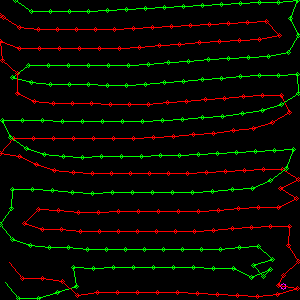
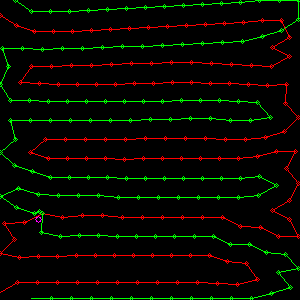
Forgot to turn on chain. Increased weighting of inv area. Seems to work now. Ready to rerun tests

diff --git a/src/main.cpp b/src/main.cpp
@@ -46,7 +46,7 @@ int main (int argc, char* argv[]){
 
 
 
-    std::string number_of_agents = std::string("single/");
+    std::string number_of_agents = std::string("double/");
     std::string type_of_test = std::string("full");
 
 
@@ -78,11 +78,15 @@ int main (int argc, char* argv[]){
                 Field f = Field(field_x_rows,field_y_cols,num_sources, std_dev_noise, max_range);  
                 std::cout << "SHOWING Agents" << std::endl;
                 Agent a1 = Agent("Drone1", 15 ,0, field_x_rows, field_y_cols, max_range, std_dev_noise,speed,  &certainty_grids);
+#ifdef DOUBLE
                 Agent a2 = Agent("Drone2", 0 , 15, field_x_rows, field_y_cols, max_range,std_dev_noise, speed, &certainty_grids);
+#endif
                 // Agent a3 = Agent("Drone2", 299 ,0, field_x_rows, field_y_cols, max_range,speed, &certainty_grids);
                 Agent::step_counter = 0;
-                // a1.output = &output_agent;
-                // a2.output = &output_agent;
+                a1.output = &output_agent;
+#ifdef DOUBLE
+                a2.output = &output_agent;
+#endif
                 // a3.output = &output_agent;
 
 
@@ -102,15 +106,17 @@ int main (int argc, char* argv[]){
 #ifdef SHOW_IMG
                 std::pair<int,int> a1_curr = a1.getCoords();    
                 cv::circle(map, a1.pair2Point(a1_curr),2,cv::Scalar(0,255,0));  
-
-                // std::pair<int,int> a2_curr = a2.getCoords();
-                // cv::circle(map, a2.pair2Point(a2_curr),2,cv::Scalar(0,0,255));
-                    
+#ifdef DOUBLE
+                std::pair<int,int> a2_curr = a2.getCoords();
+                cv::circle(map, a2.pair2Point(a2_curr),2,cv::Scalar(0,0,255));
+#endif
                 cv::imshow("map", map);
                 cv::waitKey(WAITKEY_DELAY);
 #endif
                 a1.updateCertainty(f);
-                // a2.updateCertainty(f); 
+#ifdef DOUBLE
+                a2.updateCertainty(f);
+#endif
 
                 while(true){
                     // cv::waitKey(0);
@@ -126,6 +132,7 @@ int main (int argc, char* argv[]){
                         break;
                     }
                     a1_dest = a1.moveToPosition(a1_dest);
+                    a1.updateCertainty(f); 
                     cv::line(map, a1.pair2Point(a1_dest), a1.pair2Point(a1_curr),cv::Scalar(0,255,0));
                     cv::circle(map, a1.pair2Point(a1_curr),2,cv::Scalar(0,255,0));
                     cv::Mat cert_grid = a1.getMap();
@@ -142,10 +149,11 @@ int main (int argc, char* argv[]){
 
 
                     // a1.updateMap();
-                    a1.updateCertainty(f); 
+
+                    // cv::waitKey(0);
 
 
-
+#ifdef DOUBLE
                     //plot a2
                     std::pair<int,int> a2_curr = a2.getCoords();
                     std::cout << "Drone 2 at: " << a2_curr.first << "," << a2_curr.second << std::endl;
@@ -156,6 +164,8 @@ int main (int argc, char* argv[]){
                         break;
                     }
                     a2_dest = a2.moveToPosition(a2_dest);
+                    a2.updateCertainty(f);
+
                     cv::line(map, a2.pair2Point(a2_dest), a2.pair2Point(a2_curr),cv::Scalar(0,0,255));
                     cv::circle(map, a2.pair2Point(a2_curr),2,cv::Scalar(0,0,255));
                     cert_grid = a2.getMap();
@@ -170,31 +180,8 @@ int main (int argc, char* argv[]){
 // #endif
 
                     // a2.updateMap();
-                    a2.updateCertainty(f);   
 
-
-
-                    // //plot a3
-                    // std::pair<int,int> a3_curr = a3.getCoords();
-                    // std::cout << "Drone 3 at: " << a3_curr.first << "," << a3_curr.second << std::endl;
-                    // a3.updateCertainty(f);    
-                    // std::pair<int,int> a3_dest = a3.determineAction();
-                    // if(a3_dest.first == -1 ){ //exploration complete
-                    //     break;
-                    // }
-                    // a3_dest = a3.moveToPosition(a3_dest);
-                    // a3.updateMap();
-
-                    // cv::line(map, a3.pair2Point(a3_dest), a3.pair2Point(a3_curr),cv::Scalar(255,0,0));
-                    // cv::circle(map, a3.pair2Point(a3_curr),2,cv::Scalar(255,0,0));
-                    // cert_grid = a3.getMap();
-                    // cv::cvtColor(cert_grid, cert_grid, cv::COLOR_GRAY2BGR);
-                    // cv::addWeighted(map, 1, cert_grid, 0.5, 0, img);
-#ifdef SHOW_IMG
-                    // // cv::imshow("map", img);
-                    // // cv::waitKey(1);
-                    // // cv::imshow("locations", a2.getSignalLocations());
-                    // // cv::waitKey(1);
+                    // cv::waitKey(0);  
 #endif
 
                 }

diff --git a/src/Agent.cpp b/src/Agent.cpp
@@ -454,8 +454,10 @@ void Agent::costFunction(std::vector<cv::Point2i> points, std::unordered_set<cv:
 
 
             int frontier_chain_diff = frontier_chains - inverse_frontiers.size();
-            double chain_diff_mod = 100;
+            double chain_diff_mod = 300;
+#ifndef CHAIN
             chain_diff_mod = 0;
+#endif
             score += chain_diff_mod * frontier_chain_diff;
 
 
@@ -500,7 +502,7 @@ void Agent::costFunction(std::vector<cv::Point2i> points, std::unordered_set<cv:
 
             double inv_area_ratio = inv_ctr_area/inv_hull_area;
 
-            double inv_area_rt_mod = 3*100;
+            double inv_area_rt_mod = 7*100;
 
 #ifndef INV_HULL_AREA
 
@@ -831,10 +833,10 @@ bool Agent::verifySignalLocations(std::string name, std::pair<int,int> true_loca
     cv::Mat mask = this->certainty_grids->at(name).getLikelihood().clone(); 
     
 
-// #ifdef SHOW_IMG
+#ifdef SHOW_IMG
     cv::imshow("Mask for", mask);
     cv::waitKey(0);
-// #endif
+#endif
 
 
     //now the black region is where the signal should be
@@ -843,18 +845,18 @@ bool Agent::verifySignalLocations(std::string name, std::pair<int,int> true_loca
     cv::Mat tmp = cv::Mat::zeros(mask.size(), CV_8UC1);
     cv::circle(tmp, this->pair2Point(true_location), 1, cv::Scalar(255));
 
-// #ifdef SHOW_IMG
+#ifdef SHOW_IMG
     cv::imshow("True location", tmp);
     cv::waitKey(0);
-// #endif
+#endif
 
     cv::bitwise_and(tmp, mask, tmp);
 
     
-// #ifdef SHOW_IMG
+#ifdef SHOW_IMG
     cv::imshow("Missed overlap", tmp);
     cv::waitKey(0);
-// #endif
+#endif
 
     int remaining = cv::countNonZero(tmp);
     if(remaining == 0){

diff --git a/src/Defines.hpp b/src/Defines.hpp
@@ -7,17 +7,17 @@
 
 #define NO_OP [](){}()
 
-#define WAITKEY_DELAY 0
+#define WAITKEY_DELAY 1
 #define BASE "base_certainty"
 #define MAP "map_of_grid"
-#define LOCATIONS "locations_of_sources"
+// #define LOCATIONS "locations_of_sources"
 
 #define HERE std::cout << "HERE" << std::endl;
 
 
 
 #define COST_VEC_PRINT
-#define SHOW_IMG
+// #define SHOW_IMG
 
 
 #define DIST
@@ -27,6 +27,9 @@
 #define INV_HULL_AREA
 #define INV_HULL_PERIM
 #define CHAIN
+
+#define DOUBLE
+
 
 
 enum grid_vals{
